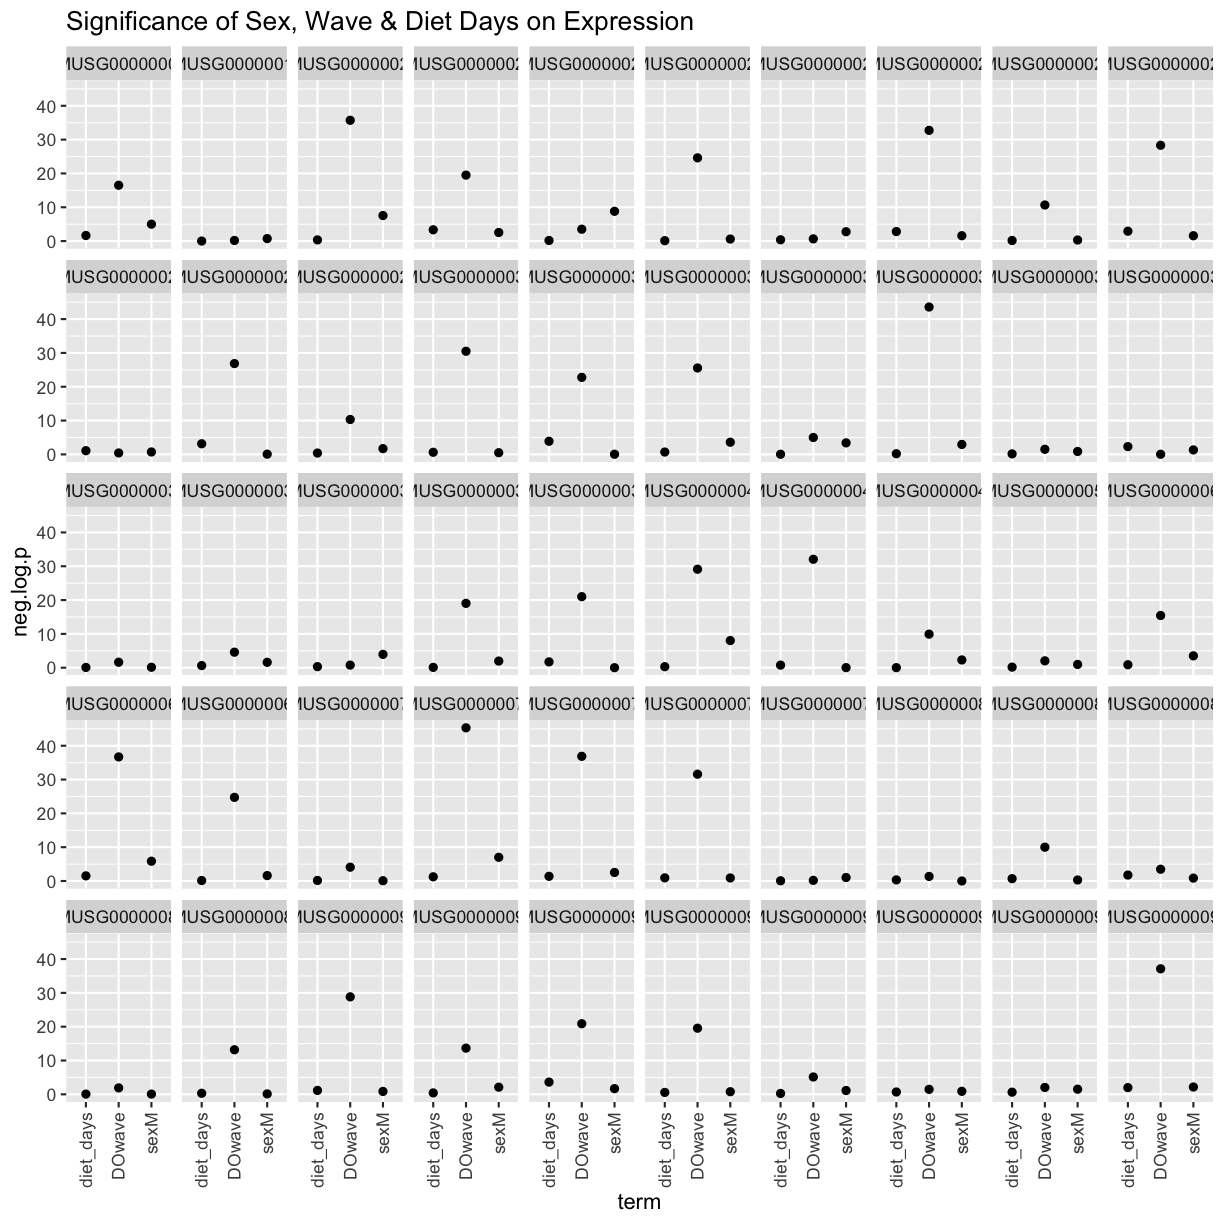
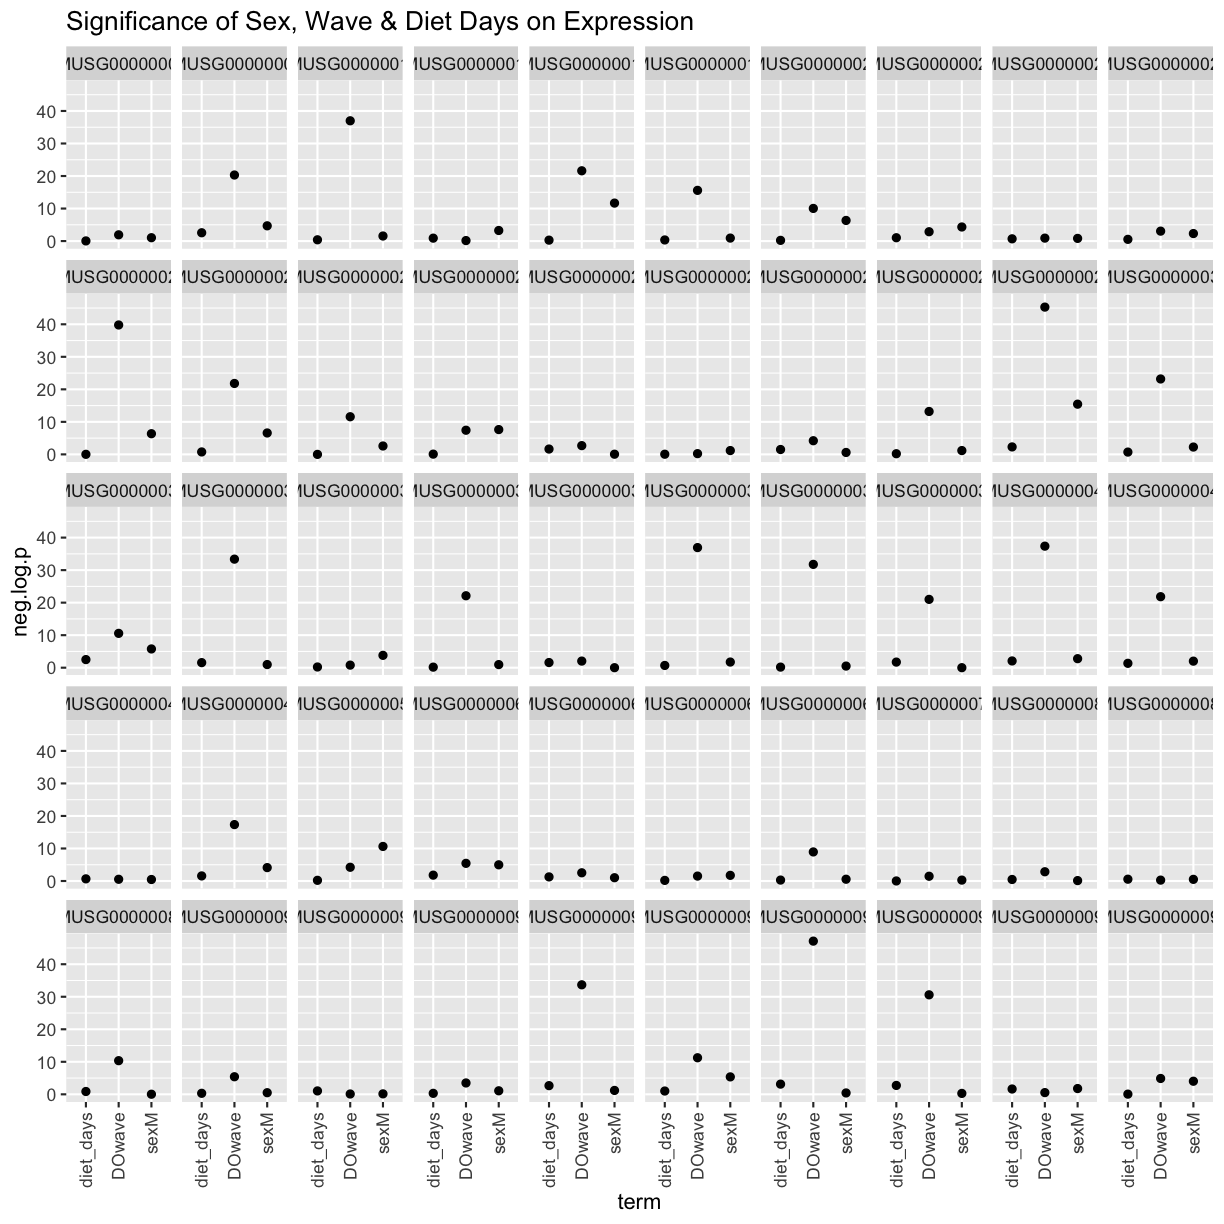
updating lesson 6 VI

diff --git a/_episodes/06-map-many-eqtls.md b/_episodes/06-map-many-eqtls.md
@@ -64,8 +64,66 @@ genes = colnames(norm)
 
 sams <- sample(length(genes), 50, replace = FALSE, prob = NULL)
 genes <- genes[sams]
+
+gene.info <- dataset.islet.rnaseq$annots[genes,]
+kable(gene.info)
 ~~~
 {: .language-r}
+
+
+
+|                   |gene_id            |symbol        |chr |      start|        end| strand|     middle|nearest.marker.id |biotype                |module         |hotspot |
+|:------------------|:------------------|:-------------|:---|----------:|----------:|------:|----------:|:-----------------|:----------------------|:--------------|:-------|
+|ENSMUSG00000017718 |ENSMUSG00000017718 |Afmid         |11  | 117.825924| 117.839908|      1| 117.832916|11_117898270      |protein_coding         |grey           |NA      |
+|ENSMUSG00000094504 |ENSMUSG00000094504 |Gm5294        |5   | 138.820080| 138.821619|      1| 138.820850|5_138814741       |protein_coding         |blue           |NA      |
+|ENSMUSG00000020812 |ENSMUSG00000020812 |1810032O08Rik |11  | 116.671660| 116.675799|      1| 116.673730|11_116674802      |protein_coding         |darkred        |NA      |
+|ENSMUSG00000034115 |ENSMUSG00000034115 |Scn11a        |9   | 119.753763| 119.825456|     -1| 119.789610|9_119738766       |protein_coding         |yellowgreen    |chr5    |
+|ENSMUSG00000022378 |ENSMUSG00000022378 |Fam49b        |15  |  63.929097|  64.060448|     -1|  63.994772|15_63966062       |protein_coding         |turquoise      |NA      |
+|ENSMUSG00000018565 |ENSMUSG00000018565 |Elp5          |11  |  69.968222|  69.982517|     -1|  69.975370|11_69978753       |protein_coding         |skyblue3       |NA      |
+|ENSMUSG00000085547 |ENSMUSG00000085547 |Gm13767       |2   |  90.358178|  90.383163|     -1|  90.370670|2_90185356        |pseudogene             |grey           |NA      |
+|ENSMUSG00000090662 |ENSMUSG00000090662 |Vmn2r45       |7   |   8.470525|   8.489075|     -1|   8.479800|7_8660580         |protein_coding         |grey           |NA      |
+|ENSMUSG00000063445 |ENSMUSG00000063445 |Nmral1        |16  |   4.710059|   4.719356|     -1|   4.714708|16_4699269        |protein_coding         |darkmagenta    |NA      |
+|ENSMUSG00000036565 |ENSMUSG00000036565 |Ttyh3         |5   | 140.620586| 140.649031|     -1| 140.634808|5_140637088       |protein_coding         |black          |NA      |
+|ENSMUSG00000050440 |ENSMUSG00000050440 |Hamp          |7   |  30.942371|  30.944017|     -1|  30.943194|7_30929661        |protein_coding         |skyblue3       |NA      |
+|ENSMUSG00000097960 |ENSMUSG00000097960 |A330074K22Rik |8   | 120.204434| 120.228230|     -1| 120.216332|8_120218062       |lincRNA                |grey           |NA      |
+|ENSMUSG00000037640 |ENSMUSG00000037640 |Zfp60         |7   |  27.731389|  27.753702|      1|  27.742546|7_27721493        |protein_coding         |green          |NA      |
+|ENSMUSG00000034616 |ENSMUSG00000034616 |Ssh3          |19  |   4.261668|   4.269172|     -1|   4.265420|19_4267368        |protein_coding         |purple         |chr13   |
+|ENSMUSG00000027374 |ENSMUSG00000027374 |Mrps5         |2   | 127.587222| 127.606829|      1| 127.597026|2_127565057       |protein_coding         |turquoise      |NA      |
+|ENSMUSG00000033707 |ENSMUSG00000033707 |Lrrc24        |15  |  76.715276|  76.722173|     -1|  76.718724|15_76785967       |protein_coding         |blue           |NA      |
+|ENSMUSG00000090235 |ENSMUSG00000090235 |Gm16244       |19  |  42.779032|  42.781454|      1|  42.780243|19_42721127       |processed_transcript   |royalblue      |NA      |
+|ENSMUSG00000066389 |ENSMUSG00000066389 |Rpl31-ps1     |12  |  91.890896|  91.891273|     -1|  91.891084|12_91918075       |pseudogene             |blue           |NA      |
+|ENSMUSG00000021534 |ENSMUSG00000021534 |1700001L19Rik |13  |  68.597439|  68.614231|      1|  68.605835|13_68633645       |protein_coding         |brown          |NA      |
+|ENSMUSG00000039428 |ENSMUSG00000039428 |Tmem135       |7   |  89.139723|  89.404222|     -1|  89.271972|7_89218481        |protein_coding         |grey           |NA      |
+|ENSMUSG00000001627 |ENSMUSG00000001627 |Ifrd1         |12  |  40.201567|  40.248504|     -1|  40.225036|12_40294989       |protein_coding         |darkolivegreen |NA      |
+|ENSMUSG00000047733 |ENSMUSG00000047733 |BC048609      |19  |   6.080033|   6.080788|      1|   6.080410|19_6205523        |protein_coding         |grey           |NA      |
+|ENSMUSG00000005378 |ENSMUSG00000005378 |Wbscr22       |5   | 135.052957| 135.064959|     -1| 135.058958|5_135055862       |protein_coding         |lightcyan      |NA      |
+|ENSMUSG00000048484 |ENSMUSG00000048484 |Gm7461        |8   |   4.677539|   4.678365|     -1|   4.677952|8_4769503         |protein_coding         |grey           |NA      |
+|ENSMUSG00000092212 |ENSMUSG00000092212 |Slc22a13b-ps  |9   | 119.220488| 119.231692|     -1| 119.226090|9_119227695       |polymorphic_pseudogene |grey           |NA      |
+|ENSMUSG00000032350 |ENSMUSG00000032350 |Gclc          |9   |  77.754535|  77.794485|      1|  77.774510|9_77797741        |protein_coding         |darkgreen      |NA      |
+|ENSMUSG00000024622 |ENSMUSG00000024622 |Hmgxb3        |18  |  61.131279|  61.177050|     -1|  61.154164|18_61173824       |protein_coding         |purple         |NA      |
+|ENSMUSG00000029878 |ENSMUSG00000029878 |Dbpht2        |12  |  74.297474|  74.300468|      1|  74.298971|12_74328374       |protein_coding         |greenyellow    |NA      |
+|ENSMUSG00000022538 |ENSMUSG00000022538 |Lsg1          |16  |  30.560494|  30.587592|     -1|  30.574043|16_30485024       |protein_coding         |turquoise      |NA      |
+|ENSMUSG00000029482 |ENSMUSG00000029482 |Aacs          |5   | 125.475814| 125.517412|      1| 125.496613|5_125525600       |protein_coding         |grey60         |NA      |
+|ENSMUSG00000031134 |ENSMUSG00000031134 |Rbmx          |X   |  57.383530|  57.393036|     -1|  57.388283|X_57389329        |protein_coding         |white          |NA      |
+|ENSMUSG00000022215 |ENSMUSG00000022215 |Fitm1         |14  |  55.575617|  55.576952|      1|  55.576284|14_55574243       |protein_coding         |grey           |NA      |
+|ENSMUSG00000011751 |ENSMUSG00000011751 |Sptbn4        |7   |  27.356383|  27.447686|     -1|  27.402034|7_27350405        |protein_coding         |black          |NA      |
+|ENSMUSG00000018707 |ENSMUSG00000018707 |Dync1h1       |12  | 110.601452| 110.666945|      1| 110.634198|12_110615192      |protein_coding         |saddlebrown    |NA      |
+|ENSMUSG00000063623 |ENSMUSG00000063623 |C230062I16Rik |7   |  29.953621|  29.955992|      1|  29.954806|7_29934934        |protein_coding         |grey           |NA      |
+|ENSMUSG00000083727 |ENSMUSG00000083727 |Gm11887       |4   |  23.440018|  23.440247|      1|  23.440132|4_23472767        |pseudogene             |grey           |NA      |
+|ENSMUSG00000028294 |ENSMUSG00000028294 |1700003M02Rik |4   |  34.688559|  34.730206|     -1|  34.709382|4_34715713        |protein_coding         |grey           |NA      |
+|ENSMUSG00000041028 |ENSMUSG00000041028 |Ghitm         |14  |  37.120444|  37.135322|     -1|  37.127883|14_37137008       |protein_coding         |salmon         |NA      |
+|ENSMUSG00000083055 |ENSMUSG00000083055 |Gm14140       |2   | 150.110582| 150.111576|     -1| 150.111079|2_150133825       |pseudogene             |grey           |NA      |
+|ENSMUSG00000068245 |ENSMUSG00000068245 |Phf11d        |14  |  59.347407|  59.365470|     -1|  59.356438|14_59350137       |protein_coding         |magenta        |chr7    |
+|ENSMUSG00000021208 |ENSMUSG00000021208 |Ifi27l2b      |12  | 103.450898| 103.457223|     -1| 103.454060|12_103467293      |protein_coding         |grey           |NA      |
+|ENSMUSG00000078480 |ENSMUSG00000078480 |Mrpl48-ps     |4   |  88.599175|  88.599810|     -1|  88.599492|4_88594292        |pseudogene             |grey           |NA      |
+|ENSMUSG00000024247 |ENSMUSG00000024247 |Pkdcc         |17  |  83.215292|  83.225070|      1|  83.220181|17_83222737       |protein_coding         |grey60         |NA      |
+|ENSMUSG00000029431 |ENSMUSG00000029431 |B3gnt4        |5   | 123.510460| 123.511882|      1| 123.511171|5_123394206       |protein_coding         |grey           |NA      |
+|ENSMUSG00000096006 |ENSMUSG00000096006 |Gm21596       |2   | 113.919247| 113.920562|     -1| 113.919904|2_113926451       |pseudogene             |grey           |NA      |
+|ENSMUSG00000046747 |ENSMUSG00000046747 |Gm9812        |12  |  55.820611|  55.821580|      1|  55.821096|12_55896608       |pseudogene             |grey           |NA      |
+|ENSMUSG00000095350 |ENSMUSG00000095350 |Gm23284       |8   | 123.620241| 123.620359|     -1| 123.620300|8_123594496       |rRNA                   |mediumpurple3  |NA      |
+|ENSMUSG00000035042 |ENSMUSG00000035042 |Ccl5          |11  |  83.525778|  83.530518|     -1|  83.528148|11_83554638       |protein_coding         |magenta        |chr7    |
+|ENSMUSG00000097589 |ENSMUSG00000097589 |Dleu2         |14  |  61.602839|  61.682373|     -1|  61.642606|14_61606644       |processed_transcript   |darkgreen      |NA      |
+|ENSMUSG00000094958 |ENSMUSG00000094958 |3110021N24Rik |4   | 108.719649| 108.781904|      1| 108.750776|4_108766689       |protein_coding         |grey           |NA      |
 
 ### Expression Data
 
@@ -75,7 +133,7 @@ Lets check the distribution for the first 20 gene expression phenotypes. If you 
 ~~~
 par(mfrow=c(3,4))
 for(gene in genes[1:20]){
-  hist(norm[,gene], main = paste0(dataset.islet.rnaseq$annots[dataset.islet.rnaseq$annots$gene_id == gene,]$symbol, " : ", gene))
+  hist(norm[,gene], main = gene)
   }
 ~~~
 {: .language-r}
@@ -135,16 +193,16 @@ tmp
 # Groups:   expression [50]
    expression         data     model  term     estimate std.e…¹ stati…²  p.value
    <chr>              <list>   <list> <chr>       <dbl>   <dbl>   <dbl>    <dbl>
- 1 ENSMUSG00000097406 <tibble> <lm>   (Interc… -0.168   0.491    -0.343 7.32e- 1
- 2 ENSMUSG00000097406 <tibble> <lm>   sexM      0.218   0.0801    2.72  6.90e- 3
- 3 ENSMUSG00000097406 <tibble> <lm>   DOwave    0.520   0.0360   14.4   7.67e-38
- 4 ENSMUSG00000097406 <tibble> <lm>   diet_da… -0.00970 0.00375  -2.58  1.02e- 2
- 5 ENSMUSG00000091272 <tibble> <lm>   (Interc… -0.188   0.549    -0.342 7.33e- 1
- 6 ENSMUSG00000091272 <tibble> <lm>   sexM     -0.240   0.0895   -2.68  7.64e- 3
- 7 ENSMUSG00000091272 <tibble> <lm>   DOwave    0.320   0.0402    7.95  2.20e-14
- 8 ENSMUSG00000091272 <tibble> <lm>   diet_da… -0.00369 0.00420  -0.881 3.79e- 1
- 9 ENSMUSG00000024854 <tibble> <lm>   (Interc…  0.228   0.506     0.450 6.53e- 1
-10 ENSMUSG00000024854 <tibble> <lm>   sexM      0.185   0.0824    2.24  2.57e- 2
+ 1 ENSMUSG00000017718 <tibble> <lm>   (Interc…  1.14    0.611     1.86  6.32e- 2
+ 2 ENSMUSG00000017718 <tibble> <lm>   sexM     -0.347   0.0995   -3.48  5.58e- 4
+ 3 ENSMUSG00000017718 <tibble> <lm>   DOwave   -0.0173  0.0448   -0.386 7.00e- 1
+ 4 ENSMUSG00000017718 <tibble> <lm>   diet_da… -0.00714 0.00467  -1.53  1.27e- 1
+ 5 ENSMUSG00000094504 <tibble> <lm>   (Interc…  0.208   0.457     0.455 6.50e- 1
+ 6 ENSMUSG00000094504 <tibble> <lm>   sexM      0.139   0.0744    1.86  6.34e- 2
+ 7 ENSMUSG00000094504 <tibble> <lm>   DOwave    0.454   0.0335   13.6   2.12e-34
+ 8 ENSMUSG00000094504 <tibble> <lm>   diet_da… -0.0108  0.00349  -3.09  2.15e- 3
+ 9 ENSMUSG00000020812 <tibble> <lm>   (Interc…  1.23    0.565     2.17  3.03e- 2
+10 ENSMUSG00000020812 <tibble> <lm>   sexM     -0.472   0.0920   -5.14  4.53e- 7
 # … with 190 more rows, and abbreviated variable names ¹std.error, ²statistic
 ~~~
 {: .output}

diff --git a/_episodes/05-map-one-eqtl.md b/_episodes/05-map-one-eqtl.md
@@ -267,7 +267,7 @@ Table: Phenotype QTL Peaks with LOD >= 6
 > 5). Find the peaks above LOD score of 6.   
 >
 > > ## Solution
-> > Replace <ensembl id> with your choice of gene expression trait
+> > Replace `<ensembl id>` with your choice of gene expression trait
 > > 
 > > ~~~
 > > #1).

diff --git a/_episodes/04-review-mapping-steps.md b/_episodes/04-review-mapping-steps.md
@@ -309,7 +309,7 @@ Table: Phenotype QTL Peaks with LOD >= 6
 > 5). Find the peaks above LOD score of 6. 
 >
 > > ## Solution
-> > Replace <pheno name> with your choice of phenotype
+> > Replace `<pheno name>` with your choice of phenotype
 > > 
 > > ~~~
 > > #1).
